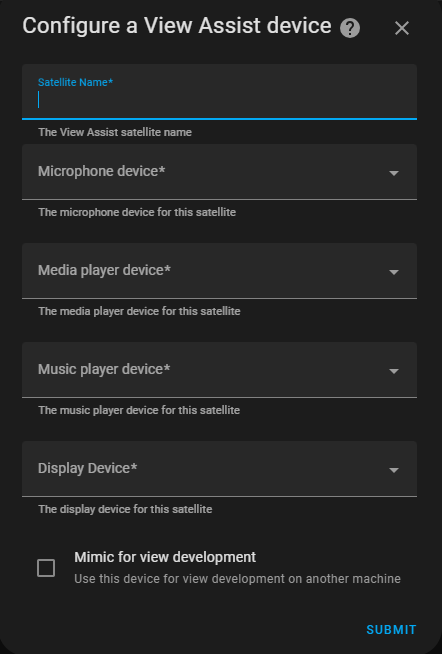
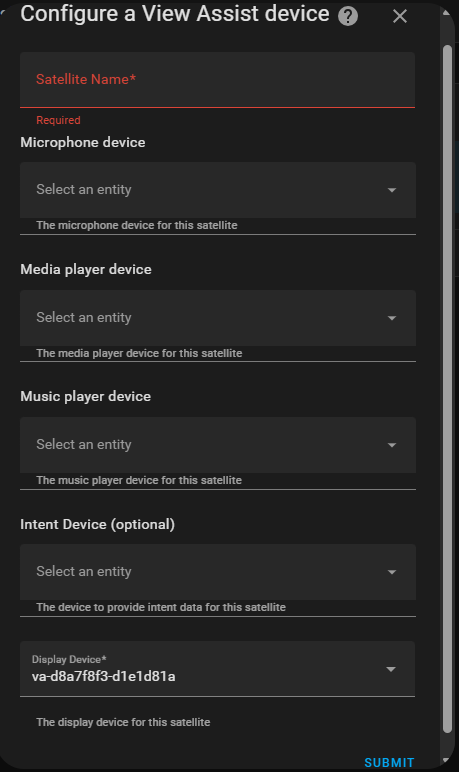
update docs to integration version changes

diff --git a/wiki/docs/view-assist-configuration/satellite-creation/index.md b/wiki/docs/view-assist-configuration/satellite-creation/index.md
@@ -1,11 +1,11 @@
 ---
 title: "View Assist Satellite Creation"
-sidebar_position: 1
+sidebar_position: 2
 ---
 
 # Satellite Device Creation
 
-Despite the name, View Assist supports both devices with and without displays.  These devices can use the same custom sentences and can interact with each other.  These are the instructions for adding these devices:
+Despite the name, View Assist supports both devices with and without displays. These devices can use the same custom sentences and can interact with each other. These are the instructions for adding these devices:
 
 In Home Assistant go to Settings -> Devices and Services -> Add integration -> Search for View Assist and click 'Add'
 
@@ -15,13 +15,29 @@ Choose the type of satellite device you are wanting to create and click 'Next'
 
 ![](./vacreate2.png)
 
-Here we are configuring a device with display.  Note that the audio only devices will not have the 'Display Device' or the 'Mimic for view development' options but everything else is the same.  We will need to fill out these core configuration options before the device can be used.  Here's the explanation of the fields:
+Here we are configuring a device with display. Note that the audio only devices will not have the 'Display Device' or the 'Mimic for view development' options but everything else is the same. We will need to fill out these core configuration options before the device can be used. Here's the explanation of the fields:
 
     - **Satellite Name:** The satellite device name (eg ViewAssist-livingroom)
     - **Microphone Device:**  Used to assign microphone to View Assist device.  See the microphone section for set up instructions
     - **Media Player Device:** Used to assign the media player used for View Assist audio message playback
     - **Music Player Device:** Used to assign the media player used for View Assist music playback.  This can be the same as Media Player Device or different
+    - **Intent Device:** The device to provide intent data for this satellite.  This is optional but can be used to provide AI context for display
     - **Display Device:** Used to assign display device to View Assist device.  See the display section for set up instructions
-    - **Mimic for view development:** This is an advanced option for those who want to develop views on a PC.  Default value is off
 
-After setting these values you can then click 'Submit' and the View Assist satellite will be ready for use!  Note that the View Assist dashboard will be automatically created after you create your first satellite with a display device.
+After setting these values you can then click 'Submit' and the View Assist satellite will be ready for use!
+
+# Satellite Device Default Option Override
+
+Once the View Assist satellite device is created you can then customize the default options set in the Master Configuration for this satellite device if you desire:
+
+![](./vaconfig0.png)
+
+In Home Assistant go to Settings -> Devices and Services and click on View Assist
+
+![](./vaconfig1.png)
+
+From this page, click on the device you want to configure
+
+![](./vaconfig2.png)
+
+Enter the section and make any needed changes and hit submit. This will set those options for use on this satellite device only

diff --git a/wiki/docs/view-assist-configuration/masterconfig-configuration/dashboard-options.md b/wiki/docs/view-assist-configuration/masterconfig-configuration/dashboard-options.md
@@ -1,0 +1,45 @@
+---
+title: "Dashboard Options"
+sidebar_position: 2
+---
+
+# Dashboard Options (Display enabled satellites only)
+
+## General Settings
+
+![](./vaconfig-dashboardoptions1.png)
+
+The dashboard options control different aspects of the View Assist display
+
+- **Dashboard** - The base dashboard for View Assist (default /viewassist/)
+- **Home screen** - The screen to return to after timeout (default /viewassist/clock)
+- **Default Music View screen** - The view to return to when in music mode (default /viewassist/music)
+- **Intent View Screen** - The view to display for default HA actions for displaying those entities (default /viewassist/intent)
+- **List View** - The view for displaying Home Assistant list type data like shopping and to do lists (default /viewassist/list)
+
+## Background Settings
+
+![](./vaconfig-dashboardoptions2.png)
+
+- **Background Image Source** - This option is used to determine how the background image is handled. The options are:
+  - **Default background** - Use a defined background image (see below)
+  - **Local file path sequence** - Picks images in their sorted order from the image path defined below
+  - **Local file path random** - Picks images randomly from the image path defined below
+  - **Download random image from Unsplash** - Downloads a random image from Unsplash website then displays it
+- **Default Background** - An image path to use as default background for all satellites (default /view_assist/dashboard/background.jpg)
+- **Image path** - The file path that stores the predefined and downloaded images
+- **Rotation interval** - Time in minutes between image rotations
+
+## Display Settings
+
+![](./vaconfig-dashboardoptions3a.png)
+![](./vaconfig-dashboardoptions3b.png)
+
+- **Assist Prompt** - The Assist prompt style to use for wake word and intent processing (default blur pop up)
+- **Status Icon Size** - The size of the activated status icons shown in the top right corner
+- **Font Style** - The default font to use for this satellite device. Font name must match perfectly and be available (default Roboto)
+- **Launch Icons** - Advanced option! List of custom launch icons to set on start up. Additional documentation to follow
+  - **Launch Icons Menu Configuration** - Advanced option! Allows for adding a single menu icon that when tapped will expand to additional icons. Add the icons to show in this configuration option. Additional documentation to follow
+  - **Launch Icons Menu Timeout** - Time in seconds before menu automatically closes (0 to disable timeout)
+- **Use 24 Hour Time** - Sets clock display to 24 hour time when enabled
+- **Show/Hide Header and Side bars** - Show or hide the header and sidebar

diff --git a/wiki/docs/view-assist-configuration/masterconfig-configuration/default-options.md b/wiki/docs/view-assist-configuration/masterconfig-configuration/default-options.md
@@ -1,0 +1,18 @@
+---
+title: "Default Options"
+sidebar_position: 3
+---
+
+# Default Options (Display enabled satellites only)
+
+![](./vaconfig5.png)
+
+The default options contain a variety of different configuration settings
+
+- **Weather Entity** - The weather entity to display on this View Assist satellite(example weather.home)
+- **Microphone Input Integration** - The microphone provider type (example HassMic)
+- **Default Mode** - The default mode for this satellite device (default normal)
+- **View Timeout** - The default time out value for this satellite device in seconds before returning to the home view (default 20)
+- **Do Not Disturb** - Default state for do not disturb mode (default off)
+- **Use Announce** - Some media player devices like BrowserMod and Squeezelite cannot use the Home Assistant announce feature while media is playing. This option allows for turning off announce messages if problems arise. Default is on but turn this off if your device supports announce
+- **Unmute Mic** - Unmute microphone on HA start/restart. This is helpful for Stream Assist devices which default to muted on Home Asistant start

diff --git a/wiki/docs/view-assist-configuration/masterconfig-configuration/index.md b/wiki/docs/view-assist-configuration/masterconfig-configuration/index.md
@@ -1,0 +1,22 @@
+---
+title: "Master Configuration Settings"
+sidebar_position: 1
+---
+
+# Master Configuration Settings
+
+The View Assist master configuration contains the default values for all satellites. These settings make it easy to deploy many satellites without the need to modify each with the same values. These master configuration values can be overridden on each individual satellite's configuration page if the default is not to be used.
+
+# Modifying the settings
+
+![](./vaconfig0.png)
+
+In Home Assistant go to Settings -> Devices and Services and click on View Assist
+
+![](./vaconfig1.png)
+
+From this page, click on the device you want to configure
+
+![](./vaconfig2.png)
+
+We will now detail each of the four options.

diff --git a/wiki/docs/view-assist-configuration/masterconfig-configuration/developer-options.md b/wiki/docs/view-assist-configuration/masterconfig-configuration/developer-options.md
@@ -1,0 +1,13 @@
+---
+title: "Developer Options"
+sidebar_position: 4
+---
+
+# Developer Options
+
+![](./vaconfig-developeroptions1.png)
+
+The developer options contain a variety of different configuration settings
+
+- **Developer Device** - The browser id of the device you wish to use for developement. This VA device's data will be used when accessing the View Assist dashboard from a nonregistered VA device (like a PC browser). This is useful in creating and troubleshooting VA automations and views
+- **Mimic device** - The device to mimic for developement

diff --git a/wiki/docs/view-assist-configuration/masterconfig-configuration/integration-options.md b/wiki/docs/view-assist-configuration/masterconfig-configuration/integration-options.md
@@ -1,0 +1,12 @@
+---
+title: "Integration Options"
+sidebar_position: 1
+---
+
+# Integration Options
+
+![](./vaconfig-integrationoptions1.png)
+
+The integration options can/will contain various settings regarding the integration itself
+
+- **Enable update notifications** - View Assist periodically checks the View Assist github site for updates to assets and will update these automatically. The user will receive a Home Assistant notification when updates occur When this option is set to on. Default is on.
